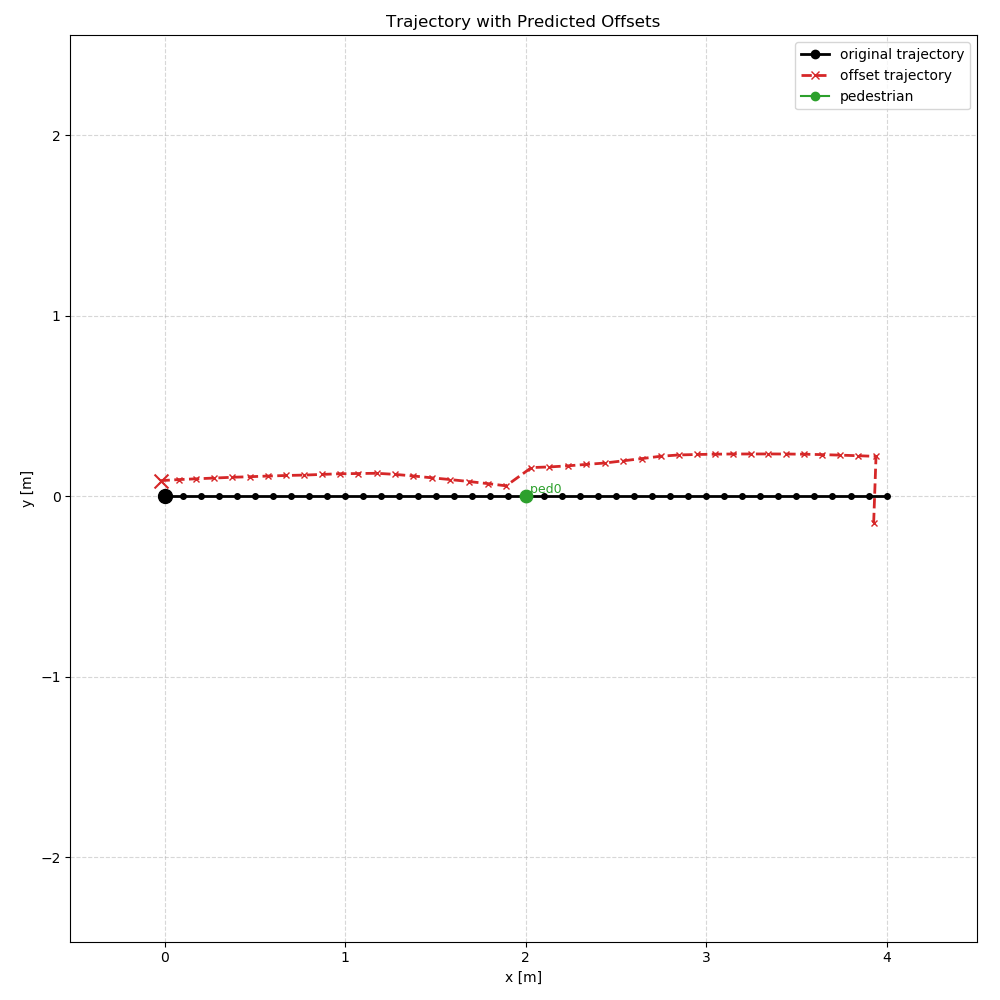
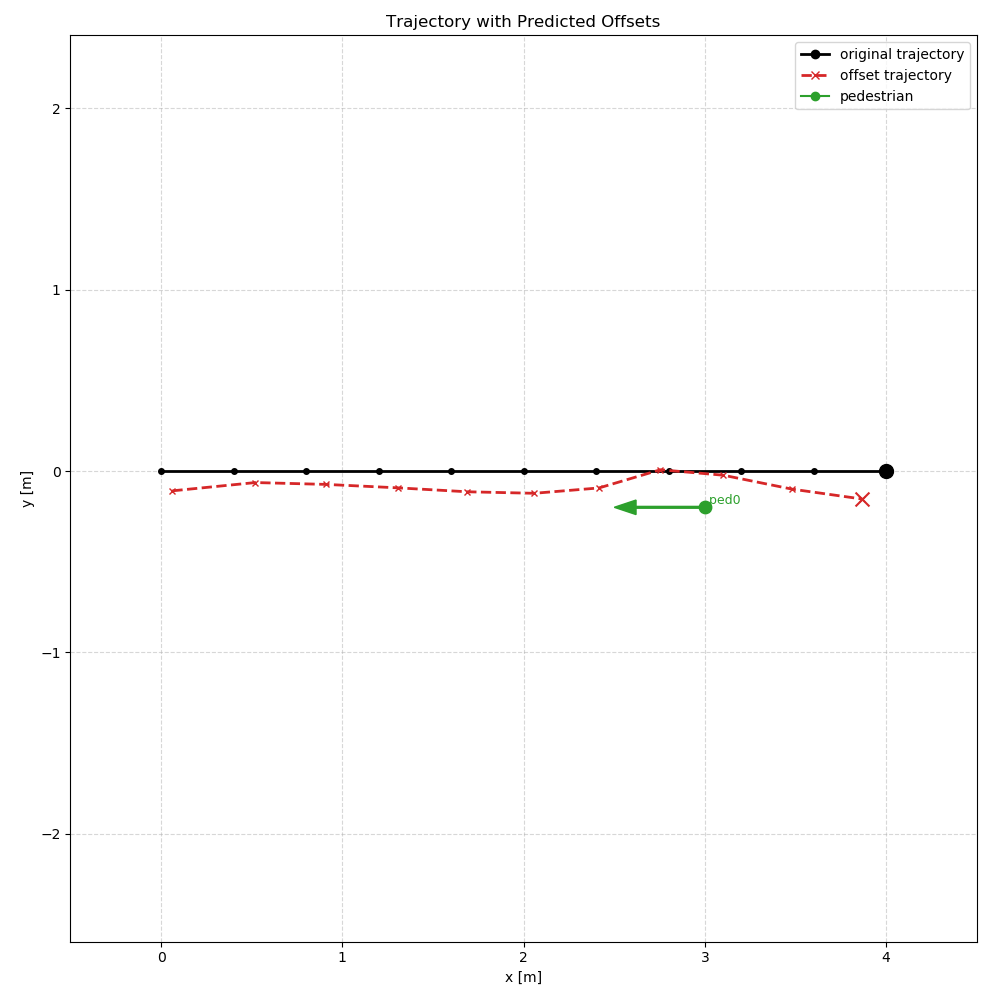
update

Changed region(s): [[0.155, 0.434, 0.899, 0.527], [0.155, 0.93, 0.186, 0.961]]

diff --git a/src/utils.py b/src/utils.py
@@ -230,9 +230,23 @@ def parse_frame_to_node_features(
     p_robot_global = pos_glb[0].copy()
     v_robot_global = vel_glb[0].copy()
 
-    # Convert GLOBAL velocities -> robot-relative velocities for node features
+    # Translate to robot-centered coordinates
     pos_rel = pos_glb - p_robot_global
     vel_rel = vel_glb - v_robot_global  # broadcasting: [V,2] - [2]
+
+    # Rotate into robot heading frame using previous robot velocity direction
+    vx, vy = v_robot_global
+    speed = np.sqrt(vx * vx + vy * vy)
+    if speed > 1e-6:
+        theta = np.arctan2(vy, vx)
+        cos_theta = np.cos(theta)
+        sin_theta = np.sin(theta)
+        R_inv = np.array([[cos_theta, sin_theta], [-sin_theta, cos_theta]], dtype=np.float32)
+        pos_rel = (R_inv @ pos_rel.T).T
+        vel_rel = (R_inv @ vel_rel.T).T
+    else:
+        pos_rel = pos_rel.astype(np.float32)
+        vel_rel = vel_rel.astype(np.float32)
 
     # Assemble node feature matrix
     x = np.zeros((V, 5), dtype=np.float32)
@@ -243,20 +257,33 @@ def parse_frame_to_node_features(
     x[:, 4] = 0.0
     x[0, 4] = 1.0
 
-    return x, p_robot_global ,v_robot_global
+    return x, p_robot_global, v_robot_global
 
 def preprocess_frame_to_node_features(frame: np.ndarray) -> np.ndarray:
     """
     Input:  [N,5] = [x,y,vx_global,vy_global,rbt]
-    Output: [N,5] = [x_rel,y_rel,vx_rel,vy_rel,is_robot]
+    Output: [N,5] = [x_rel,y_rel,vx_rel,vy_rel,is_robot] in the robot heading frame.
     """
     pos_glb = frame[:, 0:2]
     vel_glb = frame[:, 2:4]
 
     p_robot_glob = pos_glb[0].copy()
-    v_robot_glb = vel_glb[0].copy()
+    v_robot_glob = vel_glb[0].copy()
     pos_rel = pos_glb - p_robot_glob
-    vel_rel = vel_glb - v_robot_glb
+    vel_rel = vel_glb - v_robot_glob
+
+    vx, vy = v_robot_glob
+    speed = np.sqrt(vx * vx + vy * vy)
+    if speed > 1e-6:
+        theta = np.arctan2(vy, vx)
+        cos_theta = np.cos(theta)
+        sin_theta = np.sin(theta)
+        R_inv = np.array([[cos_theta, sin_theta], [-sin_theta, cos_theta]], dtype=np.float32)
+        pos_rel = (R_inv @ pos_rel.T).T
+        vel_rel = (R_inv @ vel_rel.T).T
+    else:
+        pos_rel = pos_rel.astype(np.float32)
+        vel_rel = vel_rel.astype(np.float32)
 
     is_robot = np.zeros((frame.shape[0], 1), dtype=np.float32)
     is_robot[0, 0] = 1.0
@@ -275,8 +302,8 @@ def nearest_ped_distance(x: np.ndarray) -> float:
     V = x.shape[0]
     if V <= 1:
         return float("inf")
-    dx = x[1:, 0] - x[0, 0]
-    dy = x[1:, 1] - x[0, 1]
+    dx = x[1:, 0]
+    dy = x[1:, 1]
     d = np.sqrt(dx * dx + dy * dy)
     return float(np.min(d))
 

diff --git a/src/sample_plot.py b/src/sample_plot.py
@@ -231,11 +231,8 @@ def main() -> None:
     # Only edit waypoints; dense trajectory points are auto-sampled below.
     # ============================================================
     robot_waypoints = np.array([
-        [4.0, 0.0],
-        [3.0, 0.0],
-        [2.0, 0.0],
-        [1.0, 0.0],
         [0.0, 0.0],
+        [4.0, 0.0],
     ], dtype=np.float32)
     robot_trajectory = sample_trajectory_from_waypoints(robot_waypoints, samples_per_segment=10)
 
@@ -243,11 +240,11 @@ def main() -> None:
     # Simple pedestrian positions (fixed for demonstration)
     # ============================================================
     pedestrian_positions = np.array([
-        [2, 0]
+        [3, -0.2]
     ], dtype=np.float32)
 
     pedestrian_velocities = np.array([
-        [0.0, 0.0]
+        [-0.5, 0]
     ], dtype=np.float32)
 
     # ============================================================